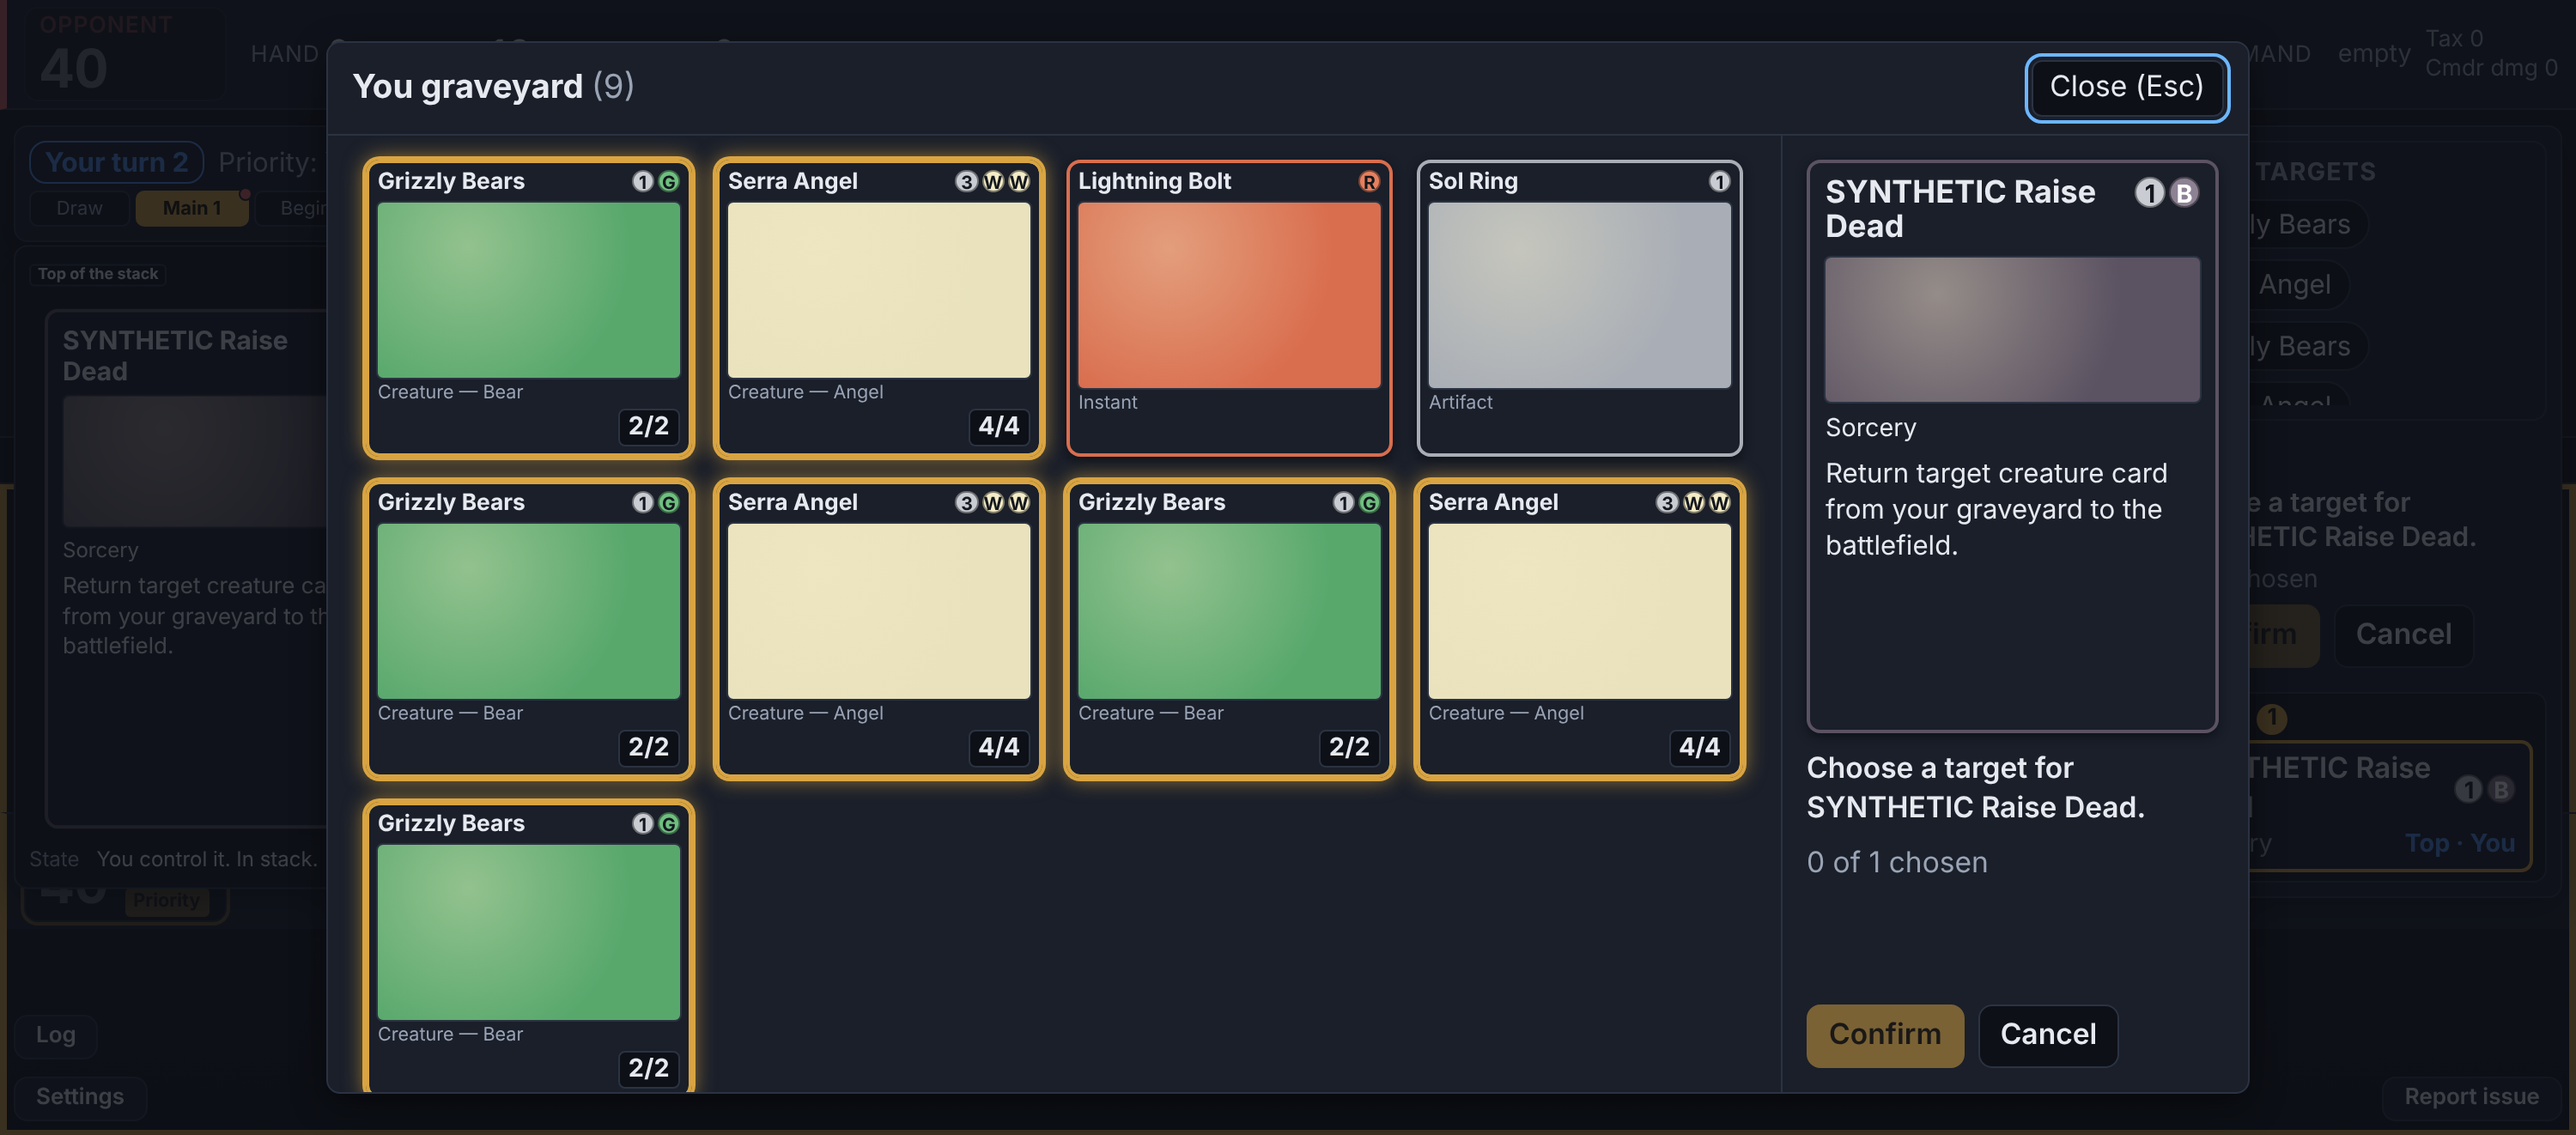
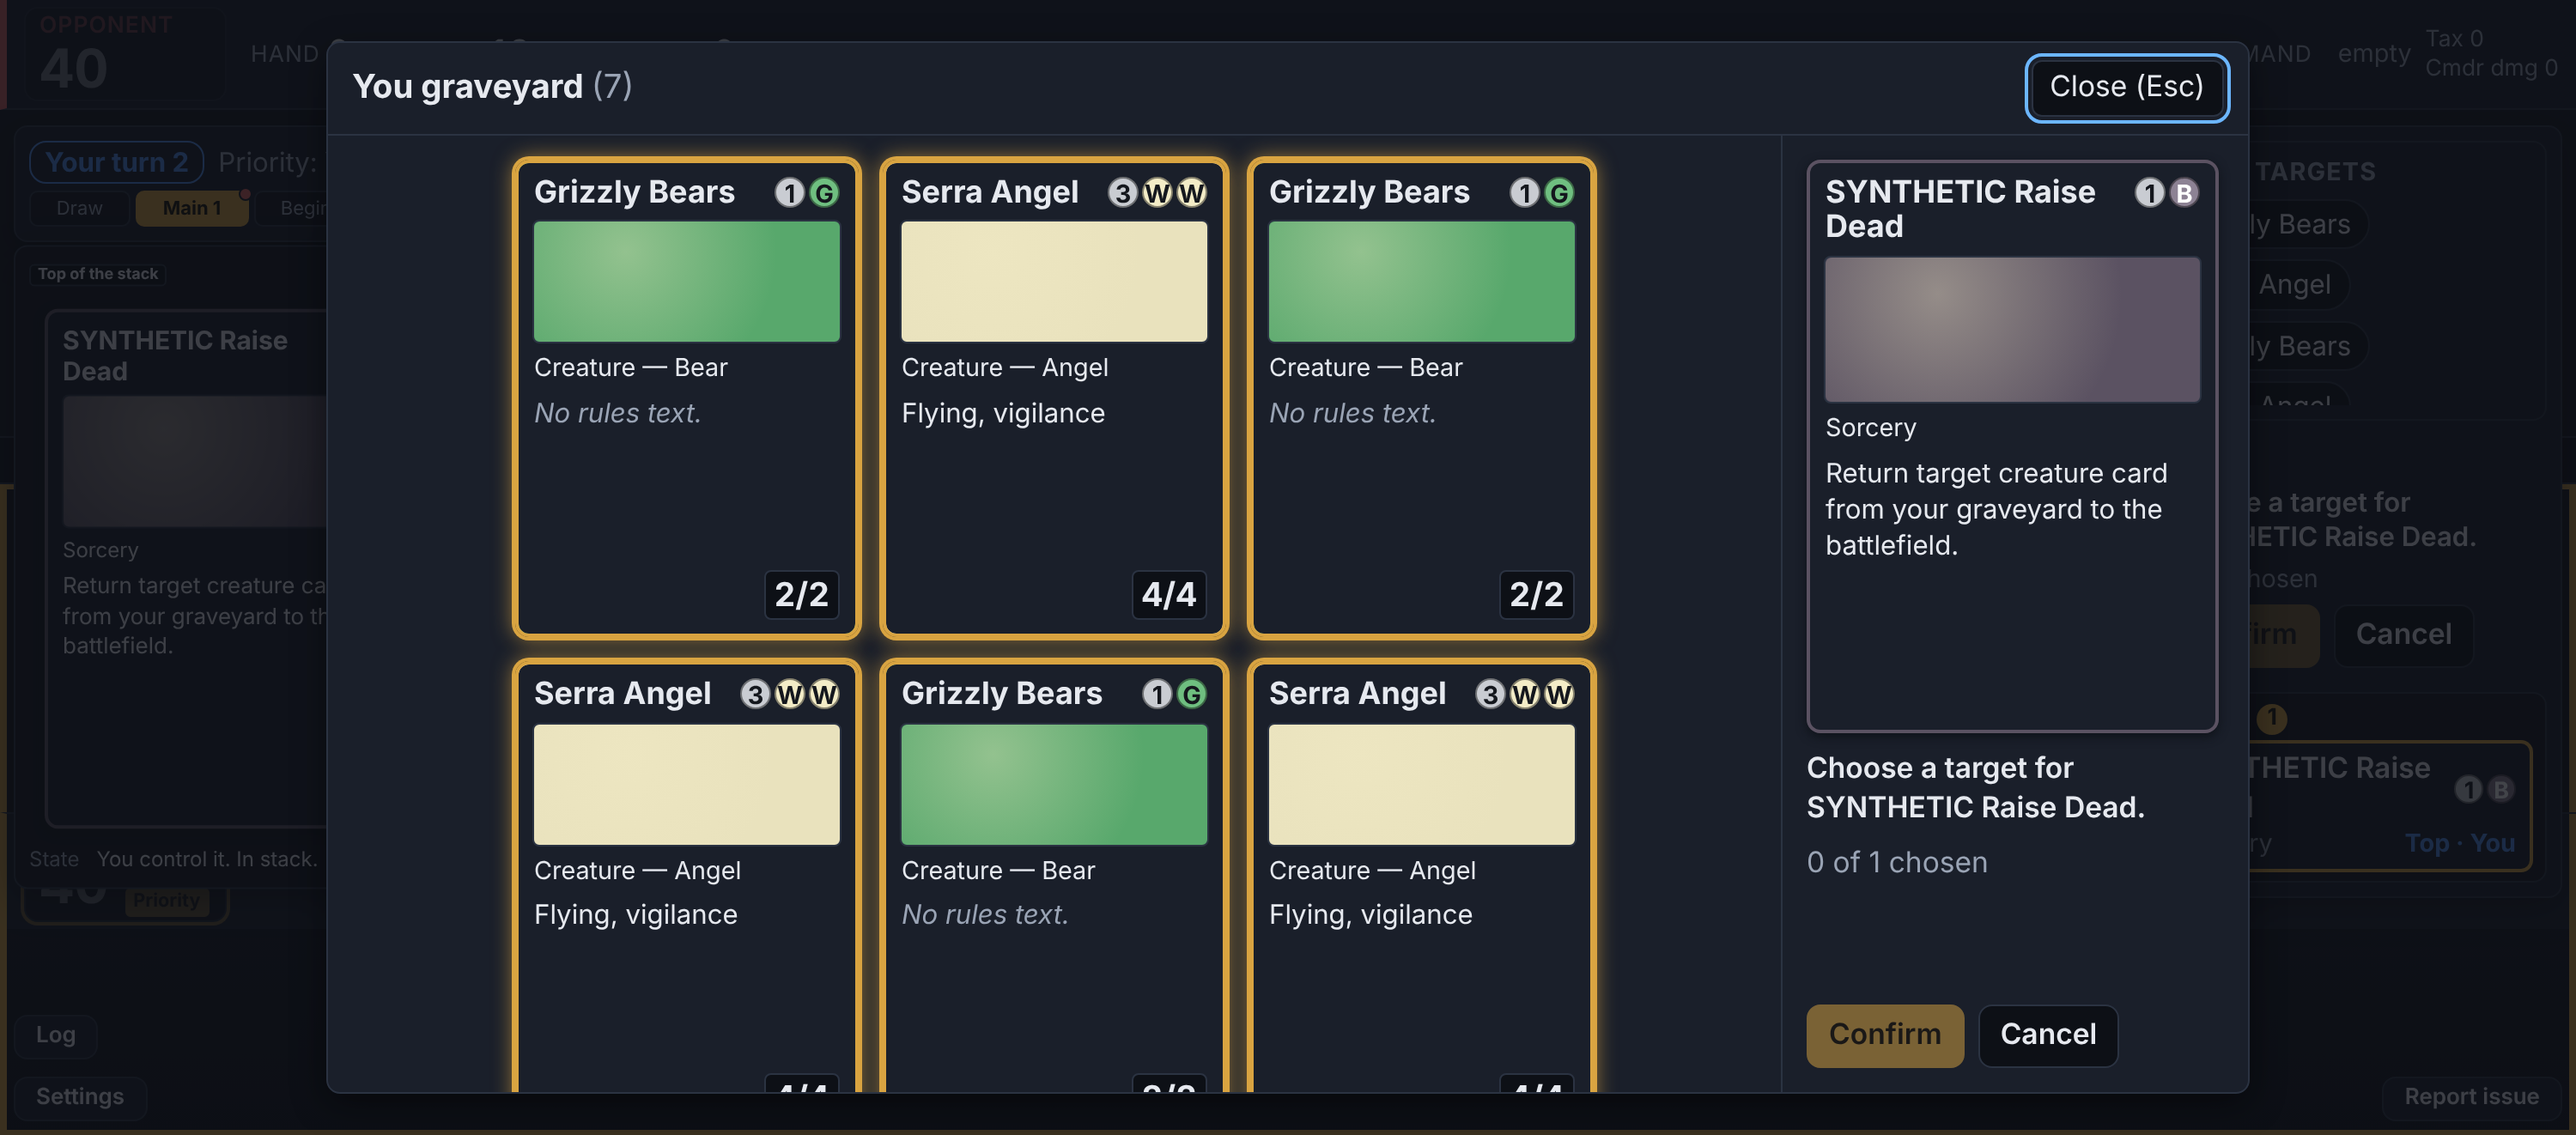
Zone Picker: reopen while asking, confirm only when open, whole cards
The picker can be closed to look at the board and opened again from an
"Open graveyard" button in the dock; while it is closed the question's
buttons are held back, so a choice is confirmed with the cards in view.
The list uses the full card face instead of the hand cell.

Claude-Session: https://claude.ai/code/session_01FwKzqP6cBccaBPMS3WM7Eh

Changed region(s): [[0.124, 0.1241, 0.682, 0.9614], [0.589, 0.9304, 0.62, 0.9614], [0.217, 0.062, 0.248, 0.093]]

diff --git a/apps/web/src/ui/decisions/DecisionLayer.tsx b/apps/web/src/ui/decisions/DecisionLayer.tsx
@@ -6,6 +6,7 @@ import type { Action } from '@commander-arena/engine';
 import { type ReactNode, useCallback, useEffect, useRef, useState } from 'react';
 import { createPortal } from 'react-dom';
 import { untappableSources } from '../../store';
+import { targetZoneToOpen } from '../board/target-zone';
 import { attachDeps, startAndTarget } from '../dnd/attach-flow';
 import { type DndPlan, DragProvider, NO_DND } from '../dnd/DragProvider';
 import { dragSpec, resolveDrop } from '../dnd/model';
@@ -23,7 +24,7 @@ import { DockPanel, ModalOverlay } from './Overlays';
 import { useOpponentThinking } from './thinking';
 import { initialUi, type UiState, uiFor } from './ui-state';
 import { withManaUntap } from './untap-mana';
-import { ZoneDecisionProvider } from './zone-decision';
+import { barWhileClosed, ZoneDecisionProvider, ZoneGateProvider } from './zone-decision';
 
 /** Decisions whose overlay shows the engine's refusal itself; the toast would repeat it. */
 const INLINE_ERROR = new Set(['payMana', 'assignDamage']);
@@ -63,6 +64,9 @@ export function DecisionLayer({ children }: { children: ReactNode }) {
     };
   }, [dockSlot]);
   const [stored, setStored] = useState<UiState>(() => initialUi(null));
+  // The Zone Picker of a question about one graveyard: open or closed, and "open it again" requests.
+  const [pickerOpen, setPickerOpen] = useState(false);
+  const [pickerRequest, setPickerRequest] = useState(0);
 
   const pending = view?.pending ?? null;
   const ui = uiFor(stored, pending);
@@ -99,8 +103,18 @@ export function DecisionLayer({ children }: { children: ReactNode }) {
     },
   };
 
-  const model =
+  const builtModel =
     view !== null && pending !== null ? buildModel(view, pending, ui, controller) : null;
+  // Confirm waits while the picker is closed: the choice is made with the cards in view.
+  const questionZone = view === null ? null : targetZoneToOpen(view);
+  const waitsForPicker = builtModel !== null && questionZone !== null && !pickerOpen;
+  const model =
+    builtModel !== null && waitsForPicker
+      ? {
+          ...builtModel,
+          bar: barWhileClosed(builtModel.bar, 'graveyard', () => setPickerRequest((n) => n + 1)),
+        }
+      : builtModel;
   const interactive = model !== null && !passing;
   // A land tapped for mana whose mana is unspent can be clicked to take the tap back (issue 19).
   const interaction = interactive
@@ -179,16 +193,21 @@ export function DecisionLayer({ children }: { children: ReactNode }) {
   // the buttons of the bar itself, with the card that asks.
   const zoneDecision =
     interactive &&
-    !model.bar.inOverlay &&
+    builtModel !== null &&
+    !builtModel.bar.inOverlay &&
     (pending?.kind === 'targets' || pending?.kind === 'chooseCards')
-      ? { bar: model.bar, source: pending.source }
+      ? { bar: builtModel.bar, source: pending.source }
       : null;
 
   return (
     <div className="decision-layer" ref={layer}>
       <InteractionProvider value={interaction}>
         <ZoneDecisionProvider value={zoneDecision}>
-          <DragProvider plan={dnd}>{children}</DragProvider>
+          <ZoneGateProvider
+            value={{ open: pickerOpen, setOpen: setPickerOpen, request: pickerRequest }}
+          >
+            <DragProvider plan={dnd}>{children}</DragProvider>
+          </ZoneGateProvider>
         </ZoneDecisionProvider>
       </InteractionProvider>
       {overlayProps === null ? null : <ModalOverlay {...overlayProps} />}

diff --git a/apps/web/src/ui/decisions/zone-decision.ts b/apps/web/src/ui/decisions/zone-decision.ts
@@ -21,3 +21,49 @@ export const ZoneDecisionProvider = ZoneDecisionContext.Provider;
 export function useZoneDecision(): ZoneDecision | null {
   return useContext(ZoneDecisionContext);
 }
+
+/**
+ * The Zone Picker can be closed to look at the board and opened again while its question is pending,
+ * but the question can only be confirmed with it open. The decision layer owns this state: the board
+ * reports whether the picker of the question's zone is open and obeys a request to open it again;
+ * the layer disables Confirm while it is closed and offers the button that opens it.
+ */
+export interface ZoneGate {
+  /** True while the picker of the question's zone is open. */
+  readonly open: boolean;
+  setOpen(open: boolean): void;
+  /** Changes each time the player asks to open the picker again. */
+  readonly request: number;
+}
+
+const NO_GATE: ZoneGate = { open: false, setOpen: () => {}, request: 0 };
+
+const ZoneGateContext = createContext<ZoneGate>(NO_GATE);
+
+export const ZoneGateProvider = ZoneGateContext.Provider;
+
+export function useZoneGate(): ZoneGate {
+  return useContext(ZoneGateContext);
+}
+
+/** The bar while the picker is closed: Confirm and the other buttons wait, and one opens the picker. */
+export function barWhileClosed(bar: BarModel, zoneName: string, reopen: () => void): BarModel {
+  return {
+    ...bar,
+    buttons: [
+      ...bar.buttons.map((b) => ({
+        ...b,
+        disabled: true,
+        hint: `Open the ${zoneName} to choose and confirm`,
+      })),
+      {
+        key: 'open-zone',
+        label: `Open ${zoneName}`,
+        variant: 'secondary' as const,
+        disabled: false,
+        hint: null,
+        run: reopen,
+      },
+    ],
+  };
+}

diff --git a/apps/web/src/ui/board/Board.tsx b/apps/web/src/ui/board/Board.tsx
@@ -5,6 +5,7 @@ import { useDropZone } from '../dnd/DragProvider';
 import { useInteraction } from '../interaction';
 import { useApp } from '../store-context';
 import './board.css';
+import { useZoneGate } from '../decisions/zone-decision';
 import { areaClass, battlefieldLabel } from './active-area';
 import { type Attachments, splitAttachments } from './attach';
 import { BlockArrows } from './BlockArrows';
@@ -119,6 +120,19 @@ export function Board() {
       autoOpened.current = false;
     }
   }, [seatToOpen]);
+  // The picker of the question's graveyard can be closed to look at the board and opened again; the
+  // decision layer holds Confirm back while it is closed (zone-decision.ts).
+  const gate = useZoneGate();
+  const questionOpen =
+    seatToOpen !== null && zone?.kind === 'graveyard' && zone.seat === seatToOpen;
+  const { setOpen: reportOpen, request } = gate;
+  useEffect(() => reportOpen(questionOpen), [questionOpen, reportOpen]);
+  const lastRequest = useRef(request);
+  useEffect(() => {
+    if (request === lastRequest.current) return;
+    lastRequest.current = request;
+    if (seatToOpen !== null) setZone({ kind: 'graveyard', seat: seatToOpen });
+  }, [request, seatToOpen]);
   const ix = useInteraction();
   const pendingBlocks = ix.pendingBlocks;
   const roles = useMemo(

diff --git a/apps/web/test/zone-picker-render.test.tsx b/apps/web/test/zone-picker-render.test.tsx
@@ -9,7 +9,7 @@ import { GameHost } from '../src/game/host';
 import { createAppStore } from '../src/store';
 import { ZoneViewer } from '../src/ui/board/ZoneViewer';
 import type { BarModel } from '../src/ui/decisions/model';
-import { ZoneDecisionProvider } from '../src/ui/decisions/zone-decision';
+import { barWhileClosed, ZoneDecisionProvider } from '../src/ui/decisions/zone-decision';
 import { StoreProvider } from '../src/ui/store-context';
 import { OPPONENT } from './alt-costs-decks';
 
@@ -60,5 +60,20 @@ describe('Zone Picker', () => {
     expect(asking).toContain('Choose a target for the ability.');
     expect(asking).toContain('0 of 1 chosen');
     expect(asking).toContain('Confirm');
+  });
+});
+
+describe('Zone Picker gate', () => {
+  test('a closed picker holds every button back and offers to open it again', () => {
+    let opened = 0;
+    const held = barWhileClosed(bar, 'graveyard', () => {
+      opened += 1;
+    });
+    const confirm = held.buttons.find((b) => b.key === 'confirm');
+    const open = held.buttons.find((b) => b.key === 'open-zone');
+    expect(confirm?.disabled).toBe(true);
+    expect(open?.disabled).toBe(false);
+    open?.run();
+    expect(opened).toBe(1);
   });
 });

diff --git a/apps/web/src/ui/board/board.css b/apps/web/src/ui/board/board.css
@@ -1724,7 +1724,7 @@
 }
 
 .board-modal-body {
-  --zone-card-w: 190px;
+  --zone-card-w: 200px;
   display: grid;
   flex: 1 1 auto;
   grid-template-columns: repeat(auto-fill, var(--zone-card-w));
@@ -1783,6 +1783,8 @@
      area (issue 59). */
   display: flex;
   flex-direction: column;
+  /* The whole card (the full variant) at the width of the grid's cell. */
+  --preview-card-w: var(--zone-card-w, 135px);
   width: var(--zone-card-w, 135px);
   height: auto;
   padding: 0;
@@ -1790,12 +1792,6 @@
   border: 0;
   text-align: left;
   cursor: default;
-}
-
-.board-zone-card > .board-card {
-  flex: none;
-  /* The top of the card, as in the hand: 135 wide over the shape of card-top.ts (123 / 135). */
-  height: calc(var(--zone-card-w, 135px) * 0.9111);
 }
 
 /*

diff --git a/apps/web/src/ui/board/ZoneViewer.tsx b/apps/web/src/ui/board/ZoneViewer.tsx
@@ -46,7 +46,7 @@ function ZoneCard({ object }: { object: ObjectView }) {
       }}
       {...hover}
     >
-      <CardFace object={object} variant="hand" />
+      <CardFace object={object} variant="full" />
       {badge !== null && <span className="board-ibadge">{badge}</span>}
       {fromGraveyard !== null && (
         <span className="board-zone-marks" data-graveyard-ability title={fromGraveyard.join(' ')}>

diff --git a/docs/BOARD_COMPONENTS.md b/docs/BOARD_COMPONENTS.md
@@ -10,9 +10,9 @@ A modal that lists the cards of one zone and, while the game asks the player a q
 
 ### What it shows
 
-- **The list** (left): the cards of the zone as large cards (190 px wide), in a grid that scrolls inside the panel. A legal choice glows, a chosen one has a ring; a click chooses or takes it back. Hovering a card shows it in the preview panel, as everywhere else. Drag and drop of a card with flashback still works.
+- **The list** (left): the cards of the zone as whole cards (200 px wide, the `full` card face), in a grid that scrolls inside the panel. A legal choice glows, a chosen one has a ring; a click chooses or takes it back. Hovering a card shows it in the preview panel, as everywhere else. Drag and drop of a card with flashback still works.
 - **The question** (right, only while a targets or chooseCards question is pending): the card that asks (the spell or ability on the stack, drawn whole), the prompt ("Choose a target for ..."), the count ("0 of 1 chosen") and the buttons (Confirm, Cancel). They are the action bar's own model, so the dock and the picker always agree.
-- **Close (Esc)** closes the list only; the question stays pending and is answered from the dock or by opening the zone again.
+- **Close (Esc)** closes the list only, to look at the board; the question stays pending. While it is closed the dock's Confirm (and Enter) wait, and an "Open graveyard" button opens it again. A question can only be confirmed with the picker open (`ZoneGate` in `zone-decision.ts`, held by the decision layer).
 
 Without a pending question (a player opens a graveyard, the exile or the command zone to read it) the picker is the list alone.
 
